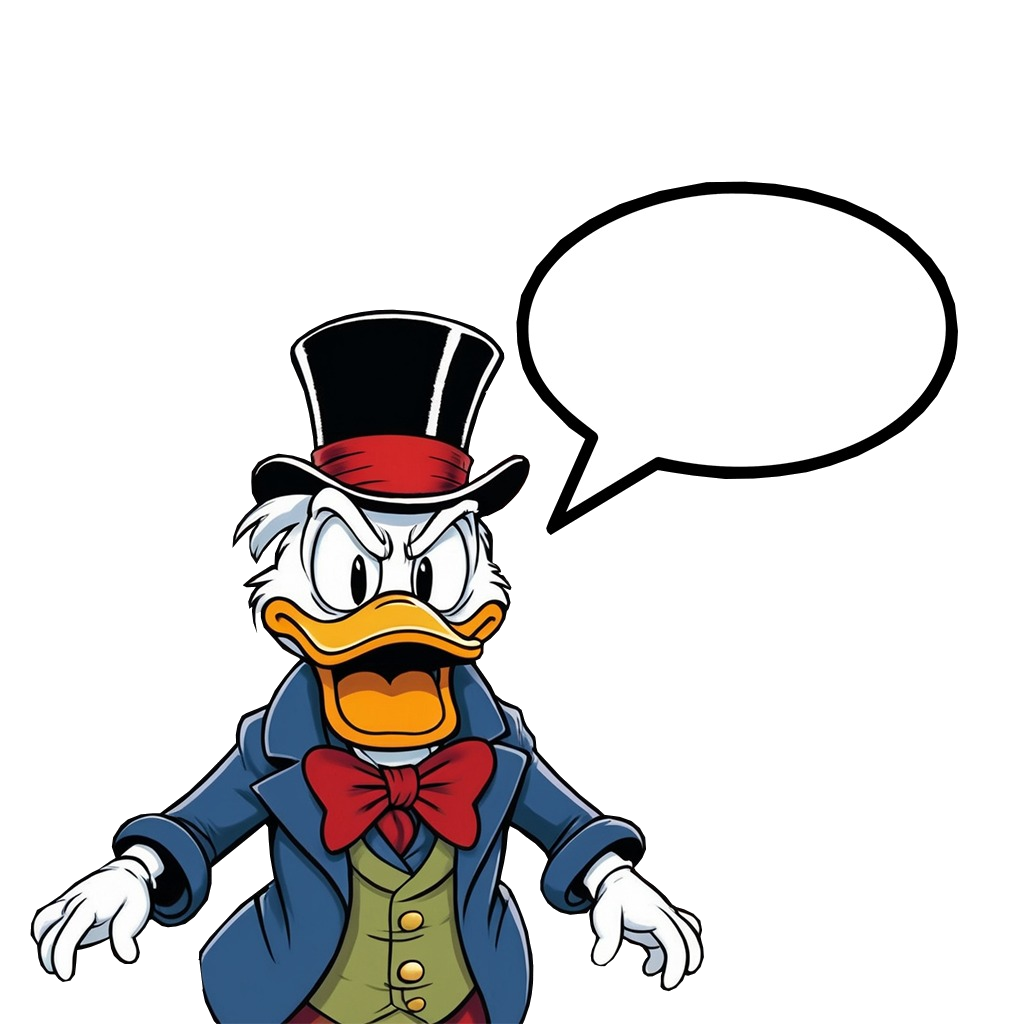
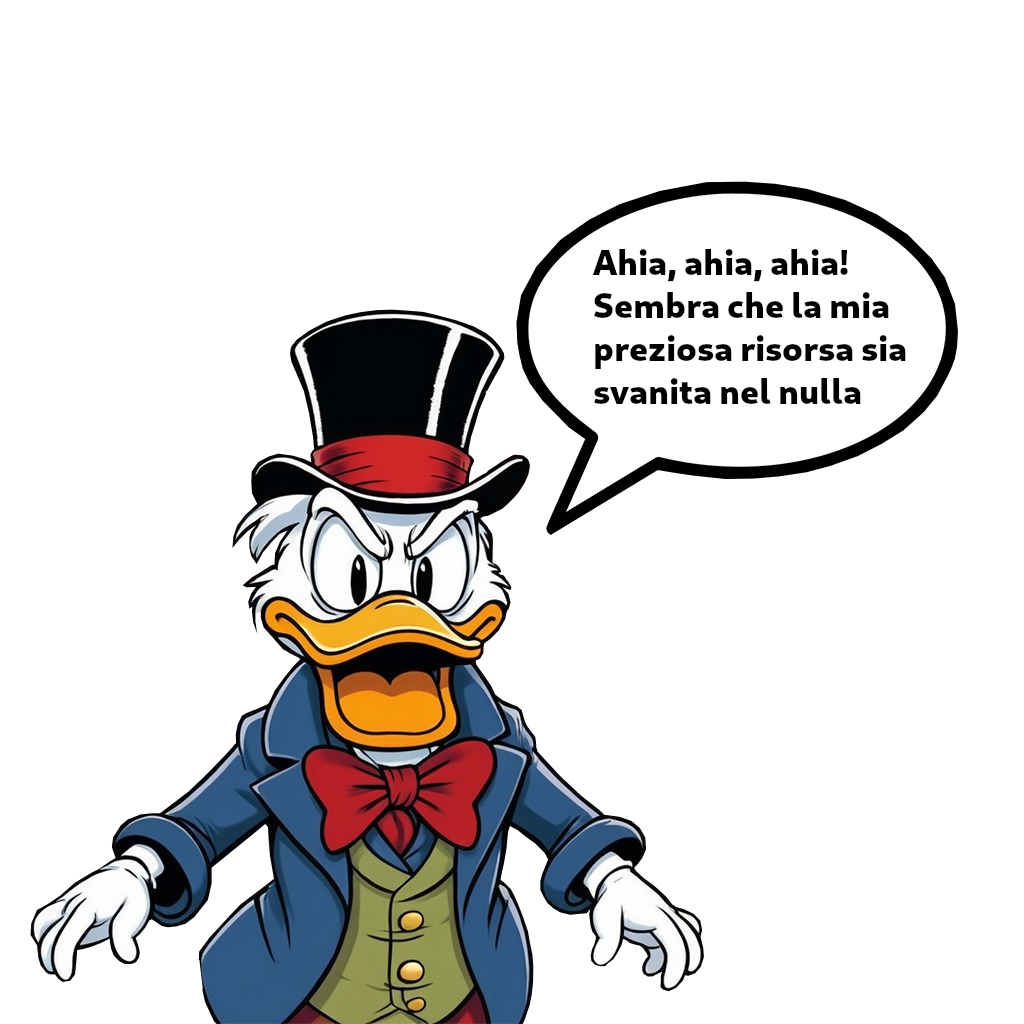
aggiunta scritta vignetta direttamente in immagine

Changed region(s): [[0.5625, 0.25, 0.875, 0.4062]]

diff --git a/content/resource_not_found.html b/content/resource_not_found.html
@@ -12,10 +12,7 @@ import head.html
 	<main>
 
 		<h1>Risorsa non trovata - 404</h1>
-		<img src="assets/img/angry_paperone.png" alt="Paperone">
-		<div>
-			<p>Ahia, ahia, ahia! Sembra che la mia preziosa risorsa sia svanita nel nulla</p>
-		</div>
+        <img src="./angry_paperone.png" alt="Paperone dice: Ahia, ahia, ahia! Sembra che la mia preziosa risorsa sia svanita nel nulla">
 
 	</main>
 
